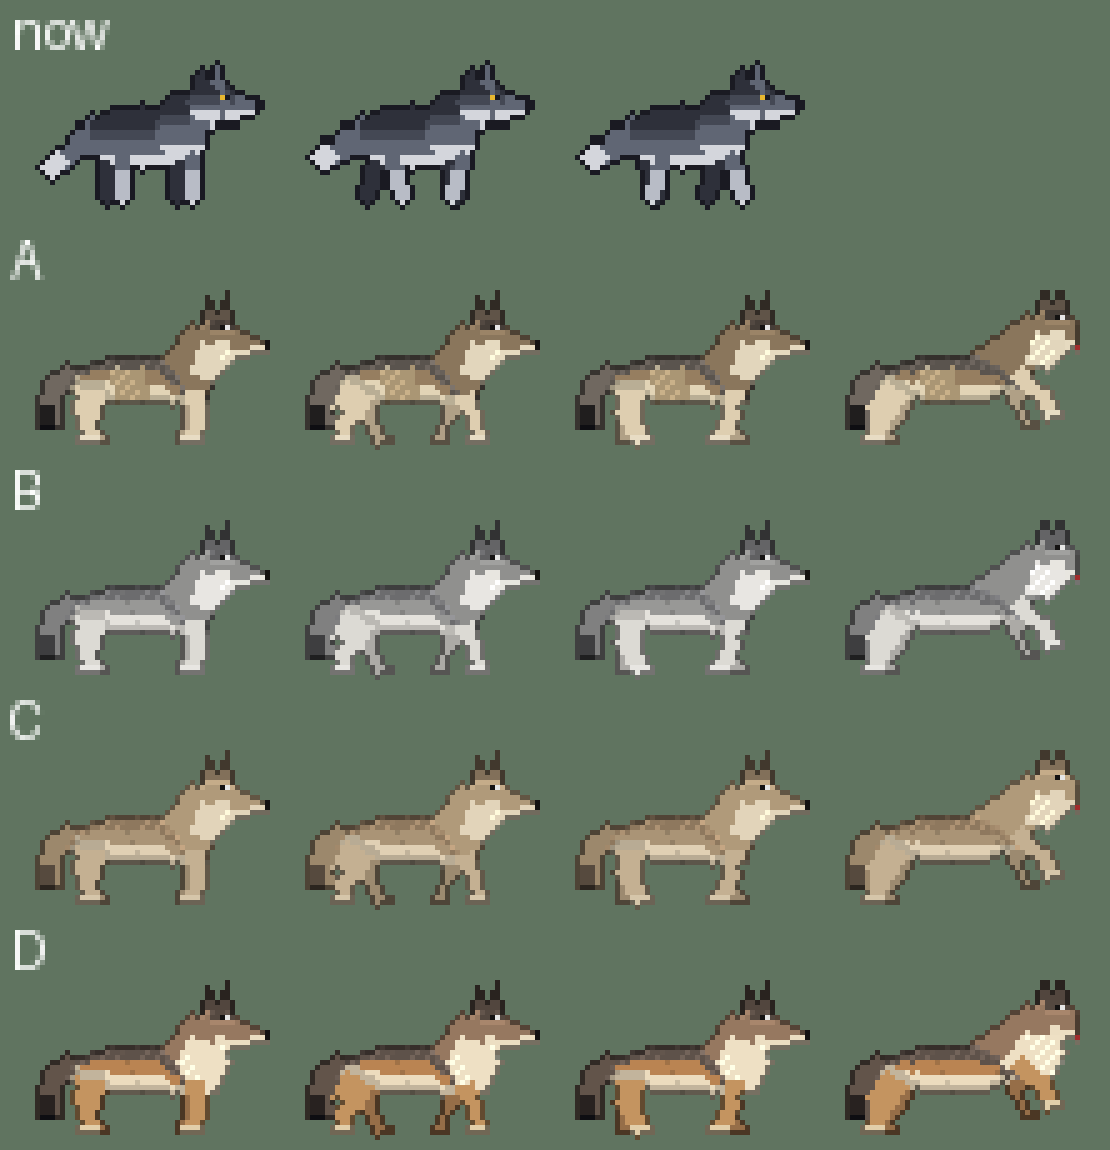
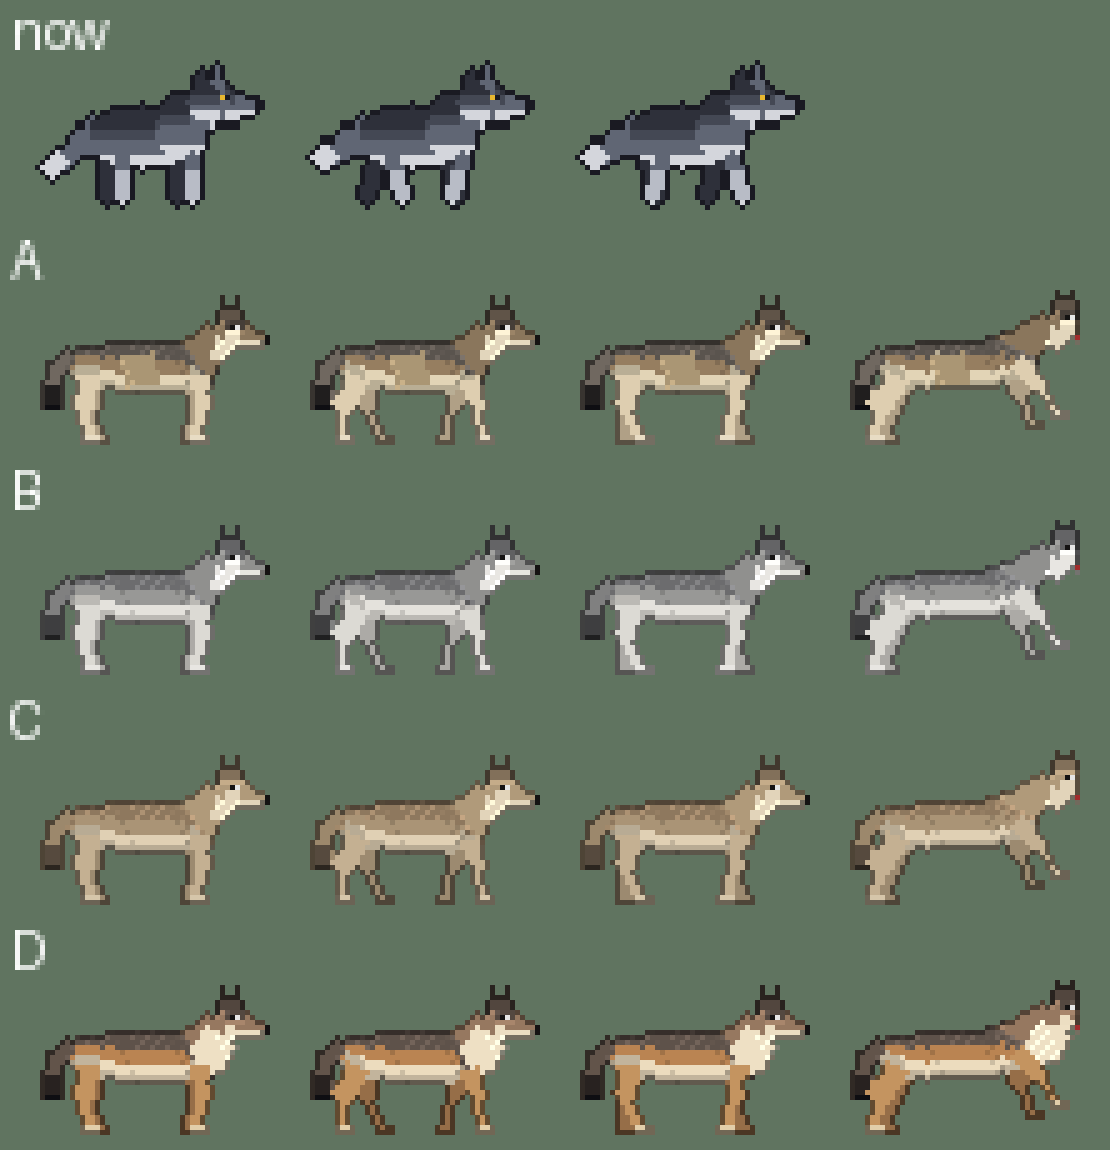
灰狼候選版本改成正常灰狼的均衡比例（頭縮小、和背部同高、身體加長、脖子短粗）
Claude-Session: https://claude.ai/code/session_01HkqM82v9towmCBuEomSQC3

diff --git a/arts/art_wolf_v2_2026-10-13/gen_wolf_variants.py b/arts/art_wolf_v2_2026-10-13/gen_wolf_variants.py
@@ -12,16 +12,16 @@ from PIL import Image, ImageDraw
 ARCH = 'arts/art_wolf_v2_2026-10-13/'
 
 BASE = dict(
-    # 狼的體型：胸深、頸部有厚鬃毛、頭大口鼻寬、腿粗、尾巴蓬鬆直垂（和郊狼的細瘦區分）
-    frame=(48, 32), ground=30, split=27, file='wolf',
-    body=[(9, 19), (11, 15), (17, 13), (26, 13), (31, 11), (36, 12), (38, 17), (37, 22), (30, 23), (18, 22), (11, 21)],
-    neck=[(28, 13), (34, 6), (39, 13), (36, 22)],
-    head=[(34, 8), (37, 5), (41, 5), (43, 7), (47, 9), (49, 10), (49, 12), (45, 13), (40, 14), (36, 13)],
-    jaw=[(44, 12), (48, 12), (47, 14), (44, 13)],
-    ears=[[(36, 6), (37, 1), (40, 5)], [(39, 5), (41, 0), (42, 6)]],
-    eye=(41, 7), nose=(49, 10),
-    legs=[('far', (32, 20), 4, 3, 1), ('far', (15, 20), 5, 3, -1), ('near', (34, 20), 4, 4, 1), ('near', (13, 20), 6, 4, -1)],
-    paw=2, tail=[(10, 16), (6, 19), (5, 23), (5, 27)], tail_w=6, tail_tip=3)
+    # 正常灰狼的均衡比例：身體長、頭約身體長的四成且和背部差不多高、脖子短粗、耳朵小、腿長約等於胸深
+    frame=(48, 32), ground=30, split=28, file='wolf',
+    body=[(7, 15), (9, 11), (15, 10), (26, 10), (31, 9), (35, 10), (37, 15), (36, 19), (30, 20), (17, 20), (9, 19)],
+    neck=[(30, 10), (35, 6), (38, 11), (36, 17)],
+    head=[(35, 7), (38, 5), (41, 5), (43, 6), (46, 8), (47, 9), (46, 11), (42, 11), (38, 11), (35, 10)],
+    jaw=[(42, 10), (46, 10), (45, 11), (42, 11)],
+    ears=[[(37, 6), (38, 1), (40, 5)], [(39, 5), (41, 1), (42, 5)]],
+    eye=(41, 7), nose=(47, 9),
+    legs=[('far', (31, 17), 4, 3, 1), ('far', (13, 17), 5, 3, -1), ('near', (33, 17), 4, 3, 1), ('near', (11, 17), 5, 3, -1)],
+    paw=2, tail=[(8, 12), (5, 15), (4, 19), (4, 23)], tail_w=5, tail_tip=3)
 
 
 def shift(sp, dx):
@@ -42,19 +42,19 @@ def shift(sp, dx):
 def variant(colors, belly, back, patches, **extra):
     sp = dict(BASE)
     sp.update(colors=colors, belly=belly, back=back, patches=patches, grizzle=True, **extra)
-    return shift(sp, -2)
+    return sp
 
 
 # 臉頰與喉部的淡色（跟著頭）、眉上的深色（跟著頭）
-CHEEK = [(36, 10), (41, 12), (42, 14), (38, 18), (34, 16)]
-BROW = [(38, 6), (42, 6), (42, 7), (38, 7)]
+CHEEK = [(37, 9), (41, 10), (41, 11), (38, 14), (36, 13)]
+BROW = [(39, 6), (42, 6), (42, 7), (39, 7)]
 
 VARIANTS = {
     'A': variant({BODY: (150, 126, 96), HEAD: (138, 118, 92), EAR: (96, 84, 72), LEG: (222, 206, 176), FARLEG: (176, 160, 134),
                   PAW: (232, 220, 196), MUZZLE: (230, 218, 192), TAIL: (112, 104, 96), TAILTIP: (32, 30, 30)},
                  belly=(226, 212, 182), back=(90, 84, 78),
                  patches=[((226, 214, 188), CHEEK, True), ((70, 62, 56), BROW, True),
-                          ((170, 150, 116), [(18, 16), (24, 15), (25, 21), (19, 22)], False)]),
+                          ((170, 150, 116), [(18, 13), (24, 12), (25, 18), (19, 19)], False)]),
     'B': variant({BODY: (152, 152, 150), HEAD: (144, 144, 142), EAR: (100, 100, 102), LEG: (220, 218, 212), FARLEG: (172, 170, 166),
                   PAW: (232, 230, 226), MUZZLE: (232, 230, 224), TAIL: (128, 128, 128), TAILTIP: (62, 62, 64)},
                  belly=(228, 226, 220), back=(108, 108, 110),
@@ -66,7 +66,7 @@ VARIANTS = {
     'D': variant({BODY: (186, 132, 82), HEAD: (150, 120, 96), EAR: (82, 70, 62), LEG: (196, 148, 96), FARLEG: (150, 110, 72),
                   PAW: (226, 206, 170), MUZZLE: (236, 222, 194), TAIL: (98, 84, 74), TAILTIP: (40, 34, 32)},
                  belly=(236, 220, 190), back=(94, 82, 74),
-                 patches=[((238, 224, 196), [(34, 11), (40, 13), (42, 16), (39, 22), (34, 22), (31, 16)], True),
+                 patches=[((238, 224, 196), [(35, 9), (40, 11), (41, 13), (38, 18), (34, 18), (32, 13)], True),
                           ((84, 72, 64), BROW, True)]),
 }
 
